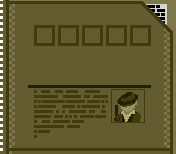
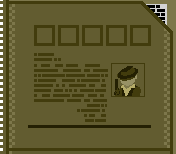
Changed font position, updated sprites, added vote demo to top row

Changed region(s): [[0.142, 0.3377, 0.8807, 0.9091]]

diff --git a/game2.html b/game2.html
@@ -26,7 +26,7 @@
 		const body = document.body;
 		const refHeight = 926;
 		const scale = body.clientHeight / refHeight;
-		const baseTopCell = -94;
+		const baseTopCell = -40;
 		const baseTopCellV2 = -40;
 
 		document.querySelectorAll(".card-cell h5").forEach(el => {
@@ -78,11 +78,11 @@
 								<div class="button-cell"><input type="button" value="o"></div>
 						</div>
 					</div>
-					<div class="card-cell"><img src="./img/UNID_agent_ph.png" alt="Test_niezidentyfikowany agent">
+					<div class="card-cell"><img src="./img/UNID_agent_ph_vote_test.png" alt="Test_niezidentyfikowany agent">
 					<h5> Pseudonim </h5> </div>
-					<div class="card-cell"><img src="./img/UNID_agent_ph.png" alt="Test_niezidentyfikowany agent">
+					<div class="card-cell"><img src="./img/UNID_agent_ph_vote_test2.png" alt="Test_niezidentyfikowany agent">
 					<h5> Pseudonim </h5> </div>
-					<div class="card-cell"><img src="./img/UNID_agent_ph.png" alt="Test_niezidentyfikowany agent">
+					<div class="card-cell"><img src="./img/UNID_agent_ph_vote_test3.png" alt="Test_niezidentyfikowany agent">
 					<h5> Pseudonim </h5> </div>
 					<div class="card-cellv2"><img src="./img/neutral_ageng_ph.png" alt="Test_niezidentyfikowany agent">
 					<h5> Pseudonim </h5> </div>
